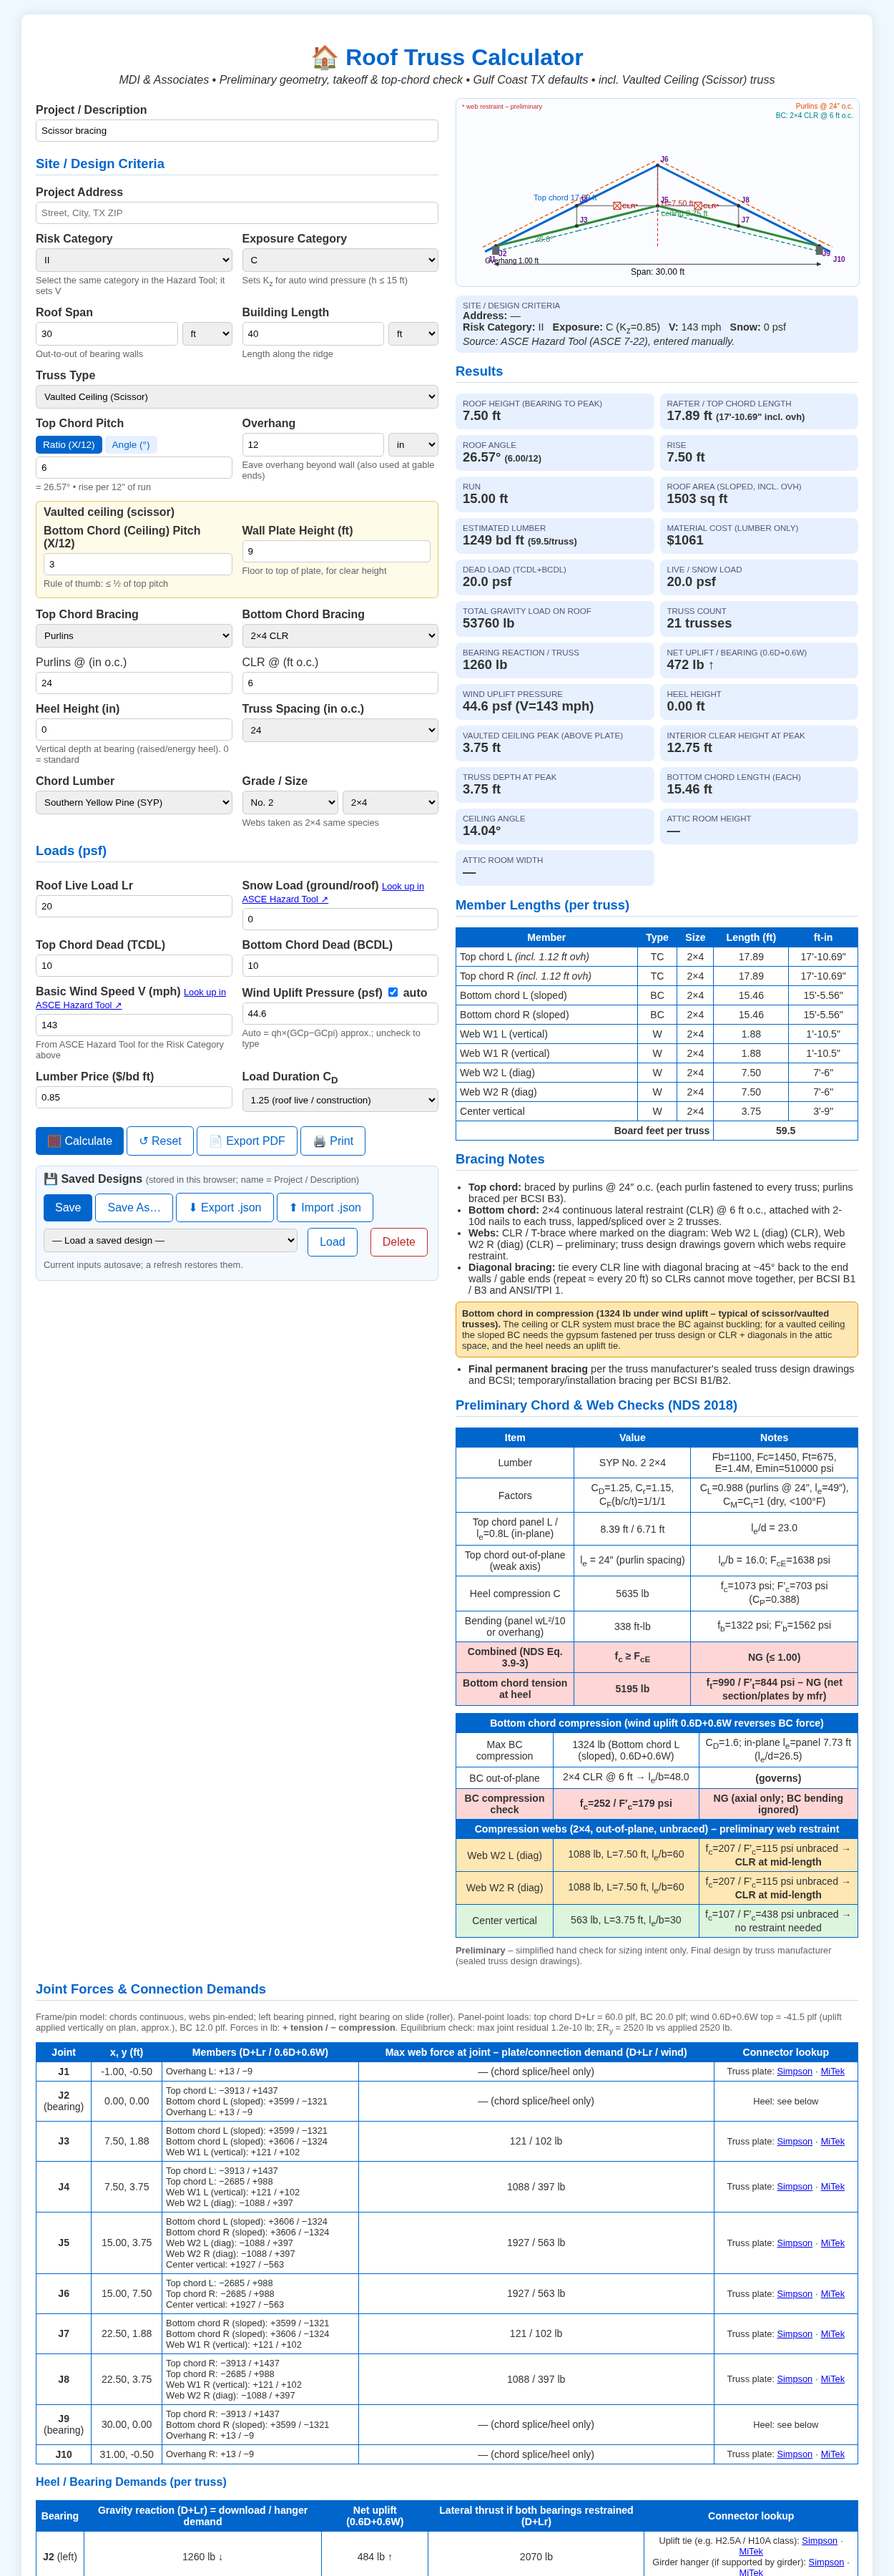
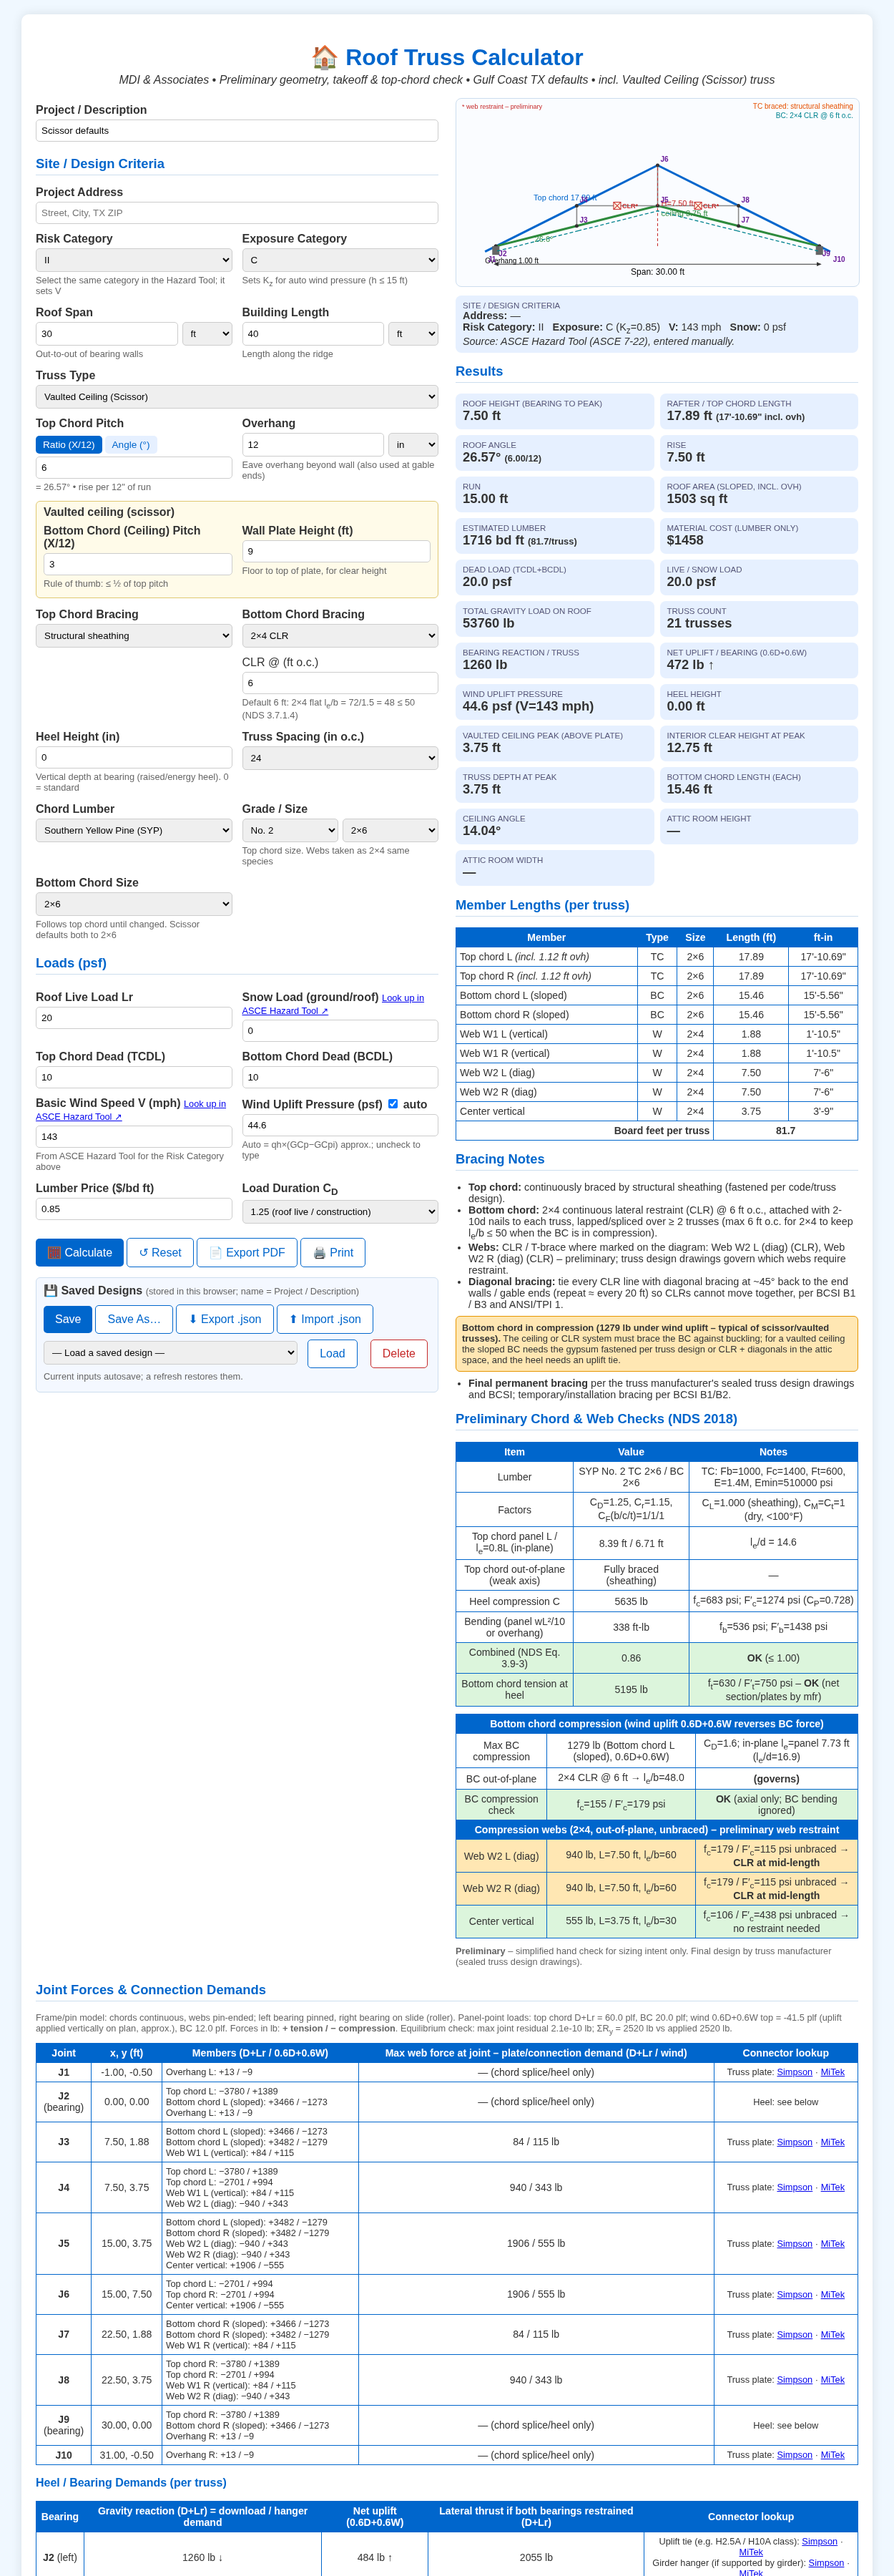
Separate bottom chord size; scissor defaults TC/BC to 2x6 (respects explicit/saved choices); king post long-panel recommendation

diff --git a/index.html b/index.html
@@ -107,7 +107,8 @@
   <div class="grid2">
    <div><label>Chord Lumber</label>
     <select id="species"><option value="SYP">Southern Yellow Pine (SYP)</option><option value="SPF">Spruce-Pine-Fir (SPF)</option><option value="DF">Douglas Fir-Larch (DF-L)</option><option value="HF">Hem-Fir (HF)</option></select></div>
-   <div><label>Grade / Size</label><div class="grid2" style="gap:0 6px"><select id="grade"><option value="No2">No. 2</option><option value="No1">No. 1</option></select><select id="size"><option value="2x4">2×4</option><option value="2x6">2×6</option><option value="2x8">2×8</option></select></div><div class="hint">Webs taken as 2×4 same species</div></div>
+   <div><label>Grade / Size</label><div class="grid2" style="gap:0 6px"><select id="grade"><option value="No2">No. 2</option><option value="No1">No. 1</option></select><select id="size"><option value="2x4">2×4</option><option value="2x6">2×6</option><option value="2x8">2×8</option></select></div><div class="hint">Top chord size. Webs taken as 2×4 same species</div></div>
+   <div><label>Bottom Chord Size</label><select id="bsize"><option value="2x4">2×4</option><option value="2x6">2×6</option><option value="2x8">2×8</option></select><div class="hint">Follows top chord until changed. Scissor defaults both to 2×6</div></div>
   </div>
   <h2>Loads (psf)</h2>
   <div class="grid2">
@@ -269,7 +270,7 @@ function analyze(model, props, loadsTop, loadsBot, pinPin, floor) {
  const K = Array.from({ length: nd }, () => new Array(nd).fill(0)), F = new Array(nd).fill(0);
  const els = mem.map(m => {
   const A = nodes[m.i], B = nodes[m.j], Lft = Math.hypot(B.x - A.x, B.y - A.y), L = Lft * 12, c = (B.x - A.x) / Lft, s = (B.y - A.y) / Lft;
-  const fr = m.ty !== 'W' || /Knee wall|ceiling joist/.test(m.lab); const p = fr ? props.chord : props.web, E = props.E, EA = E * p.A, EI = fr ? E * p.I : 0;
+  const fr = m.ty !== 'W' || /Knee wall|ceiling joist/.test(m.lab); const p = fr ? (m.ty === 'BC' && props.bchord ? props.bchord : props.chord) : props.web, E = props.E, EA = E * p.A, EI = fr ? E * p.I : 0;
   const kl = Array.from({ length: 6 }, () => new Array(6).fill(0));
   kl[0][0] = kl[3][3] = EA / L; kl[0][3] = kl[3][0] = -EA / L;
   if (EI) { const a = 12 * EI / L ** 3, b = 6 * EI / L ** 2, d = 4 * EI / L, e = 2 * EI / L;
@@ -344,6 +345,7 @@ function bracingChecks(rv, b, d, size, t) {
   const le1 = worst.L * 12, Fe1 = 0.822 * rv.Emin / (le1 / d) ** 2, le2 = clr ? clrSp * 12 : 0, Fe2 = clr ? 0.822 * rv.Emin / (le2 / b) ** 2 : Infinity;
   const Fe = Math.min(Fe1, Fe2), Fcp = Fs * cP(Fe, Fs), sl = Math.max(le1 / d, clr ? le2 / b : 0), ok = fc <= Fcp && sl <= 50;
   out.bcComp = -worst.N; out.bcOk = ok;
+  out.kingLong = t === 'king' && le1 / d > 50;
   h += `<tr><td>Max BC compression</td><td>${(-worst.N).toFixed(0)} lb (${worst.lab}, ${worst.wind ? '0.6D+0.6W' : 'gravity'})</td><td>C<sub>D</sub>=${CD}; in-plane l<sub>e</sub>=panel ${f2(worst.L)} ft (l<sub>e</sub>/d=${(le1 / d).toFixed(1)})</td></tr>
   <tr><td>BC out-of-plane</td><td>${clr ? `2×4 CLR @ ${clrSp} ft → l<sub>e</sub>/b=${(le2 / b).toFixed(1)}` : 'Rigid ceiling – fully braced'}</td><td>${clr && le2 / b > 50 ? '<b>l<sub>e</sub>/b > 50 NG</b>' : ''} ${Fe2 < Fe1 ? '<b>(governs)</b>' : ''}</td></tr>
   <tr class="${cls(ok)}"><td>BC compression check</td><td>f<sub>c</sub>=${fc.toFixed(0)} / F′<sub>c</sub>=${Fcp.toFixed(0)} psi</td><td><b>${tag(ok)}</b> (axial only; BC bending ignored)</td></tr>`;
@@ -353,9 +355,11 @@ function bracingChecks(rv, b, d, size, t) {
   const L = e.Lft * 12, fc = -N / 5.25, Fs = rw.Fc * 1.25 * rw.CFc, sl = L / 1.5, Fe = 0.822 * rw.Emin / sl ** 2, Fcp = Fs * cP(Fe, Fs);
   const need = sl > 50 || fc > Fcp; let tb = false; if (need) { const sl2 = sl / 2, Fe2 = 0.822 * rv.Emin / sl2 ** 2; tb = sl2 > 50 || fc > Fs * cP(0.822 * rw.Emin / sl2 ** 2, Fs); }
   out.webs.push({ m: e.m, need, tb }); wr.push(`<tr class="${need ? 'amber' : 'ok'}"><td>${e.m.lab}</td><td>${(-N).toFixed(0)} lb, L=${f2(e.Lft)} ft, l<sub>e</sub>/b=${sl.toFixed(0)}</td><td>f<sub>c</sub>=${fc.toFixed(0)} / F′<sub>c</sub>=${Fcp.toFixed(0)} psi unbraced → ${need ? (tb ? '<b>T-brace / L-brace</b> (CLR at mid not enough)' : '<b>CLR at mid-length</b>') : 'no restraint needed'}</td></tr>`); });
+ if (t === 'king') { const bcL = Math.max(...o.G.els.filter(e => e.m.ty === 'BC').map(e => e.Lft)), sld = bcL * 12 / d; out.kingLong = sld > 50; if (out.kingLong) h += `<tr class="fail"><td colspan="3"><b>Panel too long for king post at this span — use Fink or Queen post.</b> (BC panel ${f2(bcL)} ft, in-plane l<sub>e</sub>/d = ${sld.toFixed(1)} > 50)</td></tr>`; }
  h += '<tr><th colspan="3">Compression webs (2×4, out-of-plane, unbraced) – preliminary web restraint</th></tr>' + (wr.join('') || '<tr><td colspan="3">No compression webs</td></tr>');
  $('bcCheck').innerHTML = h;
  const webNeed = out.webs.filter(w => w.need);
+ if (out.kingLong) $('msgs').insertAdjacentHTML('beforeend', '<div class="err"><b>Panel too long for king post at this span — use Fink or Queen post.</b> Bottom chord panel in-plane l<sub>e</sub>/d exceeds 50.</div>');
  $('bracing').innerHTML = `<ul style="margin:4px 0 4px 18px;padding:0;font-size:.9em">
  <li><b>Top chord:</b> ${purl ? `braced by purlins @ ${lu}″ o.c. (each purlin fastened to every truss; purlins braced per BCSI B3)` : 'continuously braced by structural sheathing (fastened per code/truss design)'}.</li>
  <li><b>Bottom chord:</b> ${clr ? `2×4 continuous lateral restraint (CLR) @ ${clrSp} ft o.c., attached with 2-10d nails to each truss, lapped/spliced over ≥ 2 trusses (max 6 ft o.c. for 2×4 to keep l<sub>e</sub>/b ≤ 50 when the BC is in compression)` : 'braced by rigid ceiling – gypsum board applied directly to bottom chords'}.</li>
@@ -396,8 +400,8 @@ function calculate() {
  rows.forEach(r => { if (r.ty === 'TC') { r.len0 = r.len; r.len += ovSlope; } });
  if (t === 'mono') rows.find(r => r.ty === 'TC').len += 0; // overhang at low end only (high end assumed flush)
  const size = $('size').value, [nb, nd] = NOM[size];
- const bfChord = nb * nd / 12, bfWeb = 2 * 4 / 12;
- let bf = 0; rows.forEach(r => bf += r.len * (r.ty === 'W' ? bfWeb : bfChord));
+ const bsize = $('bsize').value, bfChord = nb * nd / 12, bfB = NOM[bsize][0] * NOM[bsize][1] / 12, bfWeb = 2 * 4 / 12;
+ let bf = 0; rows.forEach(r => bf += r.len * (r.ty === 'W' ? bfWeb : r.ty === 'BC' ? bfB : bfChord));
  const sp = +$('spacing').value / 12;
  const count = Math.floor(L / sp + 1e-6) + 1;
  const rise = t === 'mono' ? p / 12 * S : p / 12 * S / 2, run = t === 'mono' ? S : S / 2;
@@ -419,6 +423,7 @@ function calculate() {
  // top chord check
  const rv = refVals($('species').value, $('grade').value, size), CD = +$('cd').value, Cr = 1.15;
  const [b, d] = DIM[size], A = b * d, Sx = b * d * d / 6;
+ const rvB = refVals($('species').value, $('grade').value, bsize), [bB, dB] = DIM[bsize];
  const C = R * Math.cos(angB) / Math.sin(ang - angB); // lb, heel joint equilibrium
  const T = C * Math.cos(ang) / Math.cos(angB);
  const wPerp = (tcdl + LL) * sp * Math.cos(ang) ** 2; // plf along slope, perpendicular component
@@ -426,7 +431,7 @@ function calculate() {
  const M = wPerp * Lp * Lp / 10 * 12; // in-lb (continuous)
  const Movh = (tcdl + LL) * sp * Math.cos(ang) * ovSlope * ovSlope / 2 * 12;
  const Mgov = Math.max(M, Movh);
- const fb = Mgov / Sx, fc = C / A, ft = T / A;
+ const fb = Mgov / Sx, fc = C / A, ft = T / (bB * dB);
  const purl = $('tcBrace').value === 'purlin', lu = purl ? +$('purlinSp').value : 0;
  $('purlinBox').style.display = purl ? 'block' : 'none'; $('clrBox').style.display = $('bcBrace').value === 'clr' ? 'block' : 'none';
  let CL = 1, leB = 0; if (purl && lu > 0) { leB = lu / d < 7 ? 2.06 * lu : 1.63 * lu + 3 * d; const RB = Math.sqrt(leB * d / (b * b)), FbE = 1.2 * rv.Emin / RB ** 2, Fbs = rv.Fb * CD * rv.CFb * Cr, r = FbE / Fbs; CL = (1 + r) / 1.9 - Math.sqrt(((1 + r) / 1.9) ** 2 - r / 0.95); }
@@ -436,7 +441,7 @@ function calculate() {
  const le2 = purl ? lu : 0, FcE2 = le2 > 0 ? 0.822 * rv.Emin / ((le2 / b) ** 2) : Infinity, FcEg = Math.min(FcE, FcE2);
  const ratio = FcEg / FcStar, c = 0.8;
  const CP = (1 + ratio) / (2 * c) - Math.sqrt(((1 + ratio) / (2 * c)) ** 2 - ratio / c);
- const Fcp = FcStar * CP, Ftp = rv.Ft * CD * rv.CFt;
+ const Fcp = FcStar * CP, Ftp = rvB.Ft * CD * rvB.CFt;
  const inter = fc >= FcE ? Infinity : (fc / Fcp) ** 2 + fb / (Fbp * (1 - fc / FcE));
  const interOk = inter <= 1 && fc < FcEg && (!purl || le2 / b <= 50);
  const ftOK = ft <= Ftp;
@@ -468,12 +473,12 @@ function calculate() {
  $('cards').innerHTML = cards.join('');
  $('msgs').innerHTML = msgs.map(([c, s]) => `<div class="${c}">${s}</div>`).join('');
  $('members').innerHTML = '<tr><th>Member</th><th>Type</th><th>Size</th><th>Length (ft)</th><th>ft-in</th></tr>' + rows.map(r =>
-  `<tr><td style="text-align:left">${r.lab}${r.len0 !== undefined ? ' <i>(incl. ' + f2(ovSlope) + ' ft ovh)</i>' : ''}</td><td>${r.ty}</td><td>${r.ty === 'W' ? '2×4' : size.replace('x', '×')}</td><td>${f2(r.len)}</td><td>${ftin(r.len)}</td></tr>`).join('') +
+  `<tr><td style="text-align:left">${r.lab}${r.len0 !== undefined ? ' <i>(incl. ' + f2(ovSlope) + ' ft ovh)</i>' : ''}</td><td>${r.ty}</td><td>${r.ty === 'W' ? '2×4' : (r.ty === 'BC' ? bsize : size).replace('x', '×')}</td><td>${f2(r.len)}</td><td>${ftin(r.len)}</td></tr>`).join('') +
   `<tr><td colspan="3" style="text-align:right"><b>Board feet per truss</b></td><td colspan="2"><b>${bf.toFixed(1)}</b></td></tr>`;
  const cls = ok => ok ? 'ok' : 'fail', tag = ok => ok ? 'OK' : 'NG';
  $('check').innerHTML = `<table>
  <tr><th>Item</th><th>Value</th><th>Notes</th></tr>
- <tr><td>Lumber</td><td>${$('species').value} ${$('grade').selectedOptions[0].text} ${size.replace('x', '×')}</td><td>Fb=${rv.Fb}, Fc=${rv.Fc}, Ft=${rv.Ft}, E=${(rv.E / 1e6).toFixed(1)}M, Emin=${rv.Emin} psi</td></tr>
+ <tr><td>Lumber</td><td>${$('species').value} ${$('grade').selectedOptions[0].text} TC ${size.replace('x', '×')} / BC ${bsize.replace('x', '×')}</td><td>TC: Fb=${rv.Fb}, Fc=${rv.Fc}, Ft=${rv.Ft}, E=${(rv.E / 1e6).toFixed(1)}M, Emin=${rv.Emin} psi</td></tr>
  <tr><td>Factors</td><td>C<sub>D</sub>=${CD}, C<sub>r</sub>=${Cr}, C<sub>F</sub>(b/c/t)=${rv.CFb}/${rv.CFc}/${rv.CFt}</td><td>C<sub>L</sub>=${CL.toFixed(3)} (${purl ? 'purlins @ ' + lu + '″, l<sub>e</sub>=' + leB.toFixed(0) + '″' : 'sheathing'}), C<sub>M</sub>=C<sub>t</sub>=1 (dry, &lt;100°F)</td></tr>
  <tr><td>Top chord panel L / l<sub>e</sub>=0.8L (in-plane)</td><td>${f2(Lp)} ft / ${f2(le/12)} ft</td><td>l<sub>e</sub>/d = ${(le / d).toFixed(1)} ${le / d > 50 ? '<b>> 50 NG</b>' : ''}</td></tr>
  <tr class="${purl && le2 / b > 50 ? 'fail' : ''}"><td>Top chord out-of-plane (weak axis)</td><td>${purl ? 'l<sub>e</sub> = ' + lu + '″ (purlin spacing)' : 'Fully braced (sheathing)'}</td><td>${purl ? 'l<sub>e</sub>/b = ' + (le2 / b).toFixed(1) + (le2 / b > 50 ? ' <b>> 50 NG</b>' : '') + '; F<sub>cE</sub>=' + FcE2.toFixed(0) + ' psi' : '—'} ${FcE2 < FcE ? '<b>(governs C<sub>P</sub>)</b>' : ''}</td></tr>
@@ -485,8 +490,8 @@ function calculate() {
  const esc = x => x.replace(/[&<>"]/g, c => ({ '&': '&amp;', '<': '&lt;', '>': '&gt;', '"': '&quot;' }[c]));
  $('crit').innerHTML = `<div class="k">Site / Design Criteria</div><div style="font-size:.9em"><b>Address:</b> ${esc($('addr').value) || '—'}<br><b>Risk Category:</b> ${$('riskCat').value} &nbsp; <b>Exposure:</b> ${$('expo').value} (K<sub>z</sub>=${KZ[$('expo').value]}) &nbsp; <b>V:</b> ${V} mph &nbsp; <b>Snow:</b> ${sn} psf<br><i>Source: ASCE Hazard Tool (ASCE 7-22), entered manually.</i></div>`;
  const model = buildModel(g, S, ov, ang, t);
- jointOutput(model, { E: rv.E, chord: { A: b * d, I: b * d ** 3 / 12 }, web: { A: 5.25, I: 0 } }, (tcdl + LL) * sp, bcdl * sp, (0.6 * tcdl - 0.6 * W) * sp, 0.6 * bcdl * sp, LL === sn && sn > lr ? 'D+S' : 'D+Lr', t === 'attic' ? { x1: (S - roomW) / 2, x2: (S + roomW) / 2, w: +$('roomLL').value * sp } : null);
- const br = bracingChecks(rv, b, d, size, t);
+ jointOutput(model, { E: rv.E, chord: { A: b * d, I: b * d ** 3 / 12 }, bchord: { A: bB * dB, I: bB * dB ** 3 / 12 }, web: { A: 5.25, I: 0 } }, (tcdl + LL) * sp, bcdl * sp, (0.6 * tcdl - 0.6 * W) * sp, 0.6 * bcdl * sp, LL === sn && sn > lr ? 'D+S' : 'D+Lr', t === 'attic' ? { x1: (S - roomW) / 2, x2: (S + roomW) / 2, w: +$('roomLL').value * sp } : null);
+ const br = bracingChecks(rvB, bB, dB, bsize, t);
  drawSVG(g, S, ov, ang, t, model, br);
  $('pProj').textContent = $('proj').value || '—'; $('pDate').textContent = new Date().toLocaleDateString();
 }
@@ -548,13 +553,18 @@ function setMode(a) {
 $('tRatio').onclick = () => setMode(false); $('tAngle').onclick = () => setMode(true);
 $('calc').onclick = calculate; $('print').onclick = () => { calculate(); window.print(); };
 $('pdf').onclick = () => { calculate(); const t = document.title; document.title = 'Truss_' + ($('proj').value || 'calc').replace(/\W+/g, '_'); window.print(); document.title = t; };
-$('reset').onclick = () => { Object.entries(DEFAULTS).forEach(([k, v]) => { if ($(k).type === 'checkbox') $(k).checked = v; else $(k).value = v; }); angleMode = false; setMode(false); };
+$('reset').onclick = () => { userSet.size = userSet.bsize = false; Object.entries(DEFAULTS).forEach(([k, v]) => { if ($(k).type === 'checkbox') $(k).checked = v; else $(k).value = v; }); angleMode = false; setMode(false); };
 document.querySelectorAll('#inputs input, #inputs select').forEach(e => { if (e.id !== 'importFile' && e.id !== 'loadSel') e.addEventListener('input', calculate); });
 // URL params prefill: ?span=30&ttype=scissor&bpitch=3 ...
+// ===== Chord size defaults: scissor -> 2x6 TC & BC; BC follows TC until user changes it =====
+const userSet = { size: false, bsize: false };
+$('size').addEventListener('change', () => { userSet.size = true; if (!userSet.bsize) $('bsize').value = $('size').value; calculate(); });
+$('bsize').addEventListener('change', () => { userSet.bsize = true; });
+$('ttype').addEventListener('change', () => { if ($('ttype').value === 'scissor') { if (!userSet.size) $('size').value = '2x6'; if (!userSet.bsize) $('bsize').value = userSet.size ? $('size').value : '2x6'; calculate(); } });
 // ===== Save / Load / Autosave / JSON =====
 const LS_KEY = 'mdiTruss.designs.v1', LS_AUTO = 'mdiTruss.autosave.v1', INPUT_IDS = Object.keys(DEFAULTS).filter(k => k !== 'importFile');
 function getState() { const v = {}; INPUT_IDS.forEach(k => v[k] = $(k).type === 'checkbox' ? $(k).checked : $(k).value); return { app: 'MDI Roof Truss Calculator', version: 1, saved: new Date().toISOString(), angleMode, inputs: v }; }
-function setState(st) { if (!st || !st.inputs) throw new Error('Not a truss design file'); const inp = { ...DEFAULTS, ...st.inputs }; Object.entries(inp).forEach(([k, v]) => { const e = $(k); if (!e || k === 'importFile') return; if (e.type === 'checkbox') e.checked = !!v; else e.value = v; });
+function setState(st) { if (!st || !st.inputs) throw new Error('Not a truss design file'); const inp = { ...DEFAULTS, ...(st.inputs.bsize ? {} : { bsize: st.inputs.size || DEFAULTS.size }), ...st.inputs }; userSet.size = userSet.bsize = true; Object.entries(inp).forEach(([k, v]) => { const e = $(k); if (!e || k === 'importFile') return; if (e.type === 'checkbox') e.checked = !!v; else e.value = v; });
  angleMode = !!st.angleMode; $('tRatio').className = angleMode ? 'off' : ''; $('tAngle').className = angleMode ? '' : 'off'; calculate(); }
 const lsGet = () => { try { return JSON.parse(localStorage.getItem(LS_KEY)) || {}; } catch (e) { return {}; } };
 const lsPut = d => localStorage.setItem(LS_KEY, JSON.stringify(d));
@@ -574,7 +584,9 @@ document.querySelectorAll('#inputs input, #inputs select').forEach(e => { if (e.
 ['tRatio', 'tAngle', 'reset', 'calc'].forEach(k => $(k).addEventListener('click', () => setTimeout(autosave, 0)));
 refreshList();
 try { const a = JSON.parse(localStorage.getItem(LS_AUTO)); if (a && !location.search) setState(a); } catch (e) {}
-new URLSearchParams(location.search).forEach((v, k) => { if ($(k)) { if ($(k).type === 'checkbox') $(k).checked = v === '1'; else $(k).value = v; } });
+{ const up = new URLSearchParams(location.search);
+ up.forEach((v, k) => { if ($(k)) { if ($(k).type === 'checkbox') $(k).checked = v === '1'; else $(k).value = v; } });
+ if ([...up.keys()].length) { if (up.get('ttype') === 'scissor' && !up.has('size')) $('size').value = '2x6'; if (!up.has('bsize')) $('bsize').value = (up.get('ttype') === 'scissor' && !up.has('size')) ? '2x6' : $('size').value; if (up.has('size')) userSet.size = true; if (up.has('bsize')) userSet.bsize = true; } }
 calculate();
 </script>
 </body>

diff --git a/tests/scissor_king.test.js b/tests/scissor_king.test.js
@@ -1,0 +1,24 @@
+const p=require('puppeteer-core');(async()=>{const b=await p.launch({executablePath:'/usr/bin/google-chrome',args:['--no-sandbox'],headless:'new'});const pg=await b.newPage();const errs=[];pg.on('pageerror',e=>errs.push(e.message));
+const U='http://localhost:8765/index.html';const ok=(n,c,x)=>console.log((c?'PASS ':'FAIL ')+n+(x?' -> '+x:''));
+const rows=()=>pg.evaluate(()=>[...document.querySelectorAll('#check tr')].filter(t=>t.className).map(t=>t.cells[0].innerText.replace(/\s+/g,' ')+'='+t.className+' ['+t.innerText.replace(/\s+/g,' ').slice(0,90)+']'));
+const sizes=()=>pg.evaluate(()=>$('size').value+'/'+$('bsize').value);
+await pg.goto(U);await pg.evaluate(()=>localStorage.clear());await pg.reload();
+ok('fresh fink default 2x4/2x4',(await sizes())==='2x4/2x4',await sizes());
+await pg.select('#ttype','scissor');ok('switch to scissor -> 2x6/2x6',(await sizes())==='2x6/2x6',await sizes());
+for(const r of await rows())console.log('  scissor rigid ceiling:',r);
+await pg.select('#bcBrace','clr');for(const r of await rows())console.log('  scissor CLR 6ft:',r);
+const nf=r=>r.filter(x=>/=fail/.test(x)).length;
+await pg.select('#bcBrace','ceiling');ok('scissor default (ceiling) no NG',nf(await rows())===0);
+await pg.select('#bcBrace','clr');ok('scissor default (CLR 6 ft) no NG',nf(await rows())===0);
+// explicit user choice respected
+await pg.reload();await pg.evaluate(()=>{localStorage.clear()});await pg.goto(U+'?ttype=fink');await pg.select('#size','2x8');ok('BC follows TC',(await sizes())==='2x8/2x8');
+await pg.select('#ttype','scissor');ok('user explicit 2x8 not overridden on scissor switch',(await sizes())==='2x8/2x8',await sizes());
+// saved design values respected
+await pg.evaluate(()=>{const st=getState();st.inputs.ttype='scissor';st.inputs.size='2x4';st.inputs.bsize='2x4';setState(st)});ok('saved scissor 2x4 kept',(await sizes())==='2x4/2x4');
+await pg.evaluate(()=>{const st=getState();delete st.inputs.bsize;st.inputs.size='2x8';setState(st)});ok('legacy design w/o bsize -> BC=TC',(await sizes())==='2x8/2x8');
+await pg.goto(U+'?ttype=scissor&bpitch=3');ok('URL scissor new design -> 2x6/2x6',(await sizes())==='2x6/2x6');
+await pg.goto(U+'?ttype=king');const km=await pg.evaluate(()=>document.body.innerText.includes('Panel too long for king post at this span — use Fink or Queen post.'));ok('king post long panel note',km);
+await pg.goto(U+'?ttype=king&span=20');ok('king 20 ft span no note',!(await pg.evaluate(()=>document.body.innerText.includes('Panel too long'))));
+ok('no JS errors',errs.length===0,errs.join(';'));
+await pg.goto(U+'?ttype=scissor&bpitch=3&bcBrace=clr&proj=Scissor%20defaults');await pg.setViewport({width:1250,height:3600});await pg.screenshot({path:'/workspace/truss-calculator/preview.png'});
+await b.close()})();
